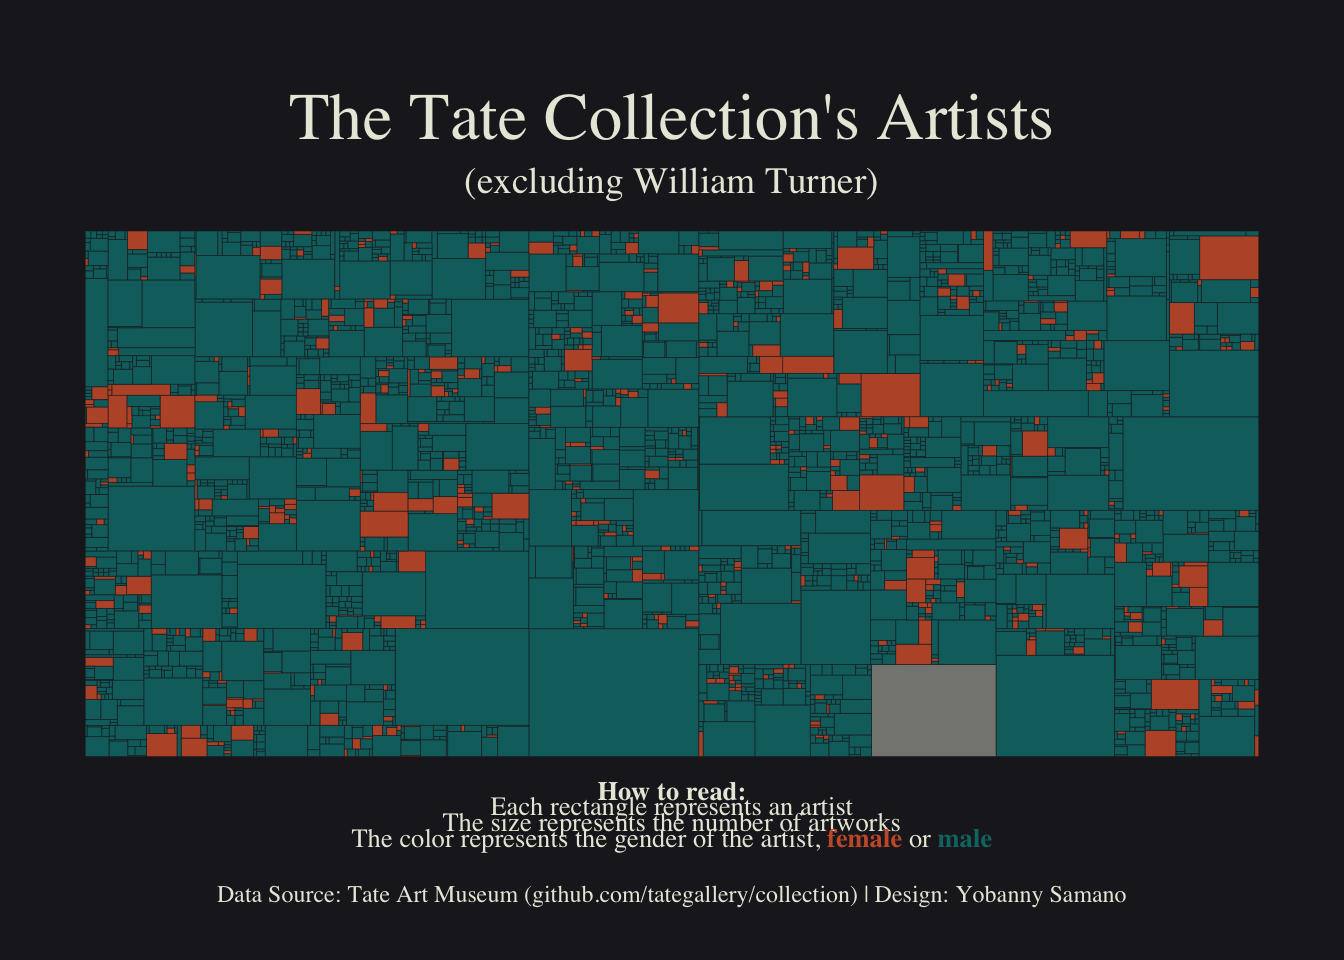
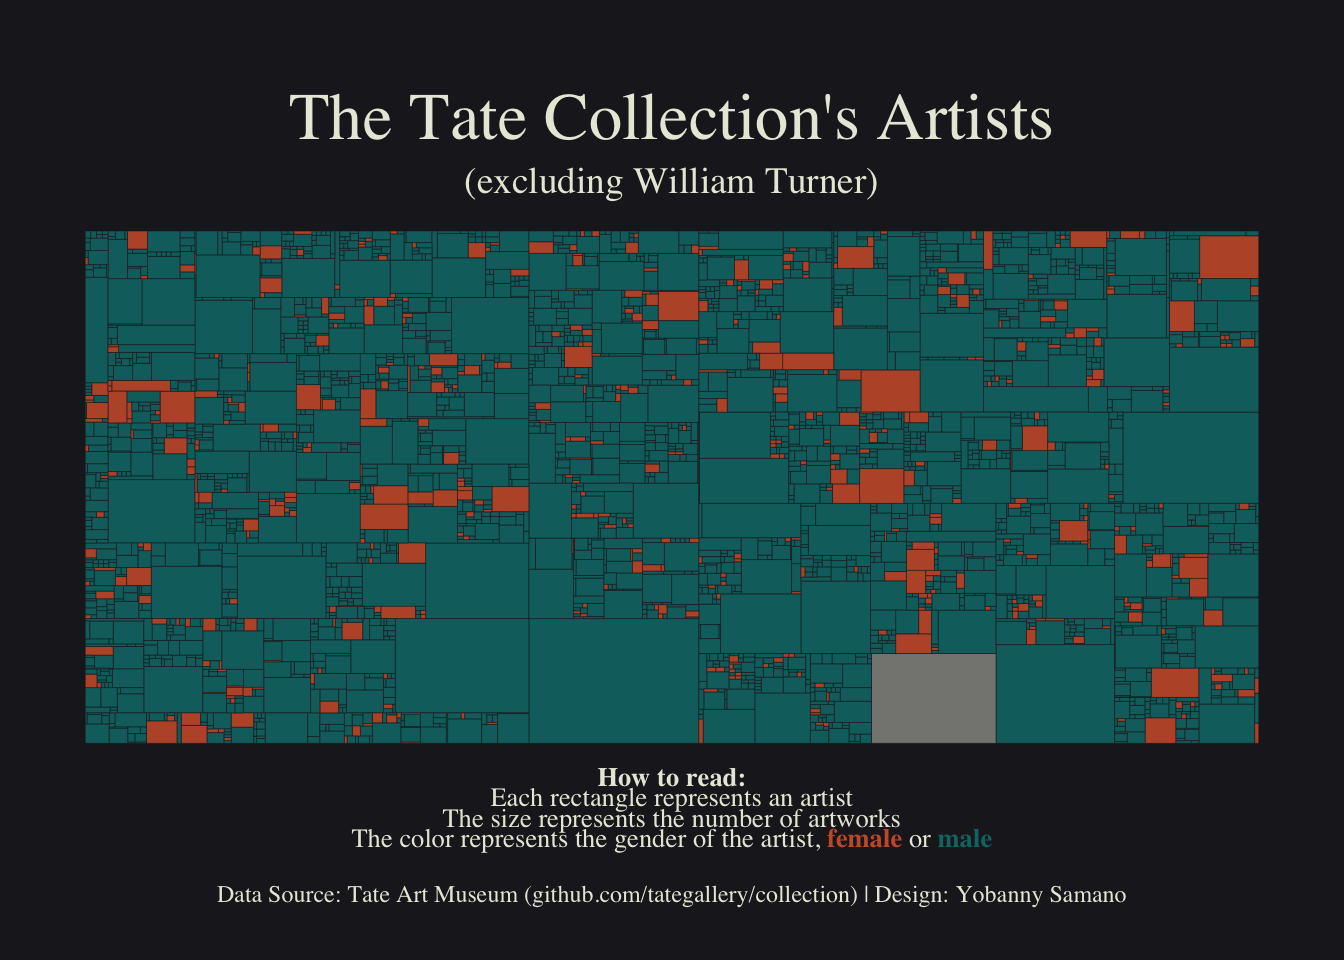
improve treemap post

Changed region(s): [[0.0625, 0.25, 0.9375, 0.875], [0.1875, 0.25, 0.2188, 0.3125], [0.0938, 0.25, 0.1562, 0.2812]]

diff --git a/web-treemap-with-annotations-labels-and-colors.html b/web-treemap-with-annotations-labels-and-colors.html
@@ -192,6 +192,10 @@ Sámano</a> on the occasion of a Tidy Tuesday in 2021! We’ll see how to
 reproduce it using his code.</p>
 <p>Since there are 2 distinct versions of this chart, we’ll see how to
 reproduce both of them.</p>
+<p>Let’s see what the final output looks like:</p>
+<center>
+<img src="https://raw.githubusercontent.com/holtzy/R-graph-gallery/master/img/graph/web-treemap-with-annotations-labels-and-colors.png" width="70%">
+</center>
 </div>
 <div id="load-data" class="section level1">
 <h1>Load data</h1>
@@ -208,18 +212,14 @@ them if needed, then you can load them:</p>
 <a
 href="https://github.com/holtzy/R-graph-gallery/tree/master/DATA">Gallery
 repo</a> or loaded directy in R as shown below:</p>
-<div class="sourceCode" id="cb2"><pre class="sourceCode r"><code class="sourceCode r"><span id="cb2-1"><a href="#cb2-1" tabindex="-1"></a><span class="co"># UNCOMMENT WHEN MERGING</span></span>
-<span id="cb2-2"><a href="#cb2-2" tabindex="-1"></a><span class="co">#artwork &lt;- readr::read_csv(</span></span>
-<span id="cb2-3"><a href="#cb2-3" tabindex="-1"></a><span class="co">#  &#39;https://raw.githubusercontent.com/holtzy/R-graph-gallery/master/DATA/artwork.csv&#39;, </span></span>
-<span id="cb2-4"><a href="#cb2-4" tabindex="-1"></a><span class="co">#  show_col_types = FALSE</span></span>
-<span id="cb2-5"><a href="#cb2-5" tabindex="-1"></a><span class="co">#)</span></span>
-<span id="cb2-6"><a href="#cb2-6" tabindex="-1"></a><span class="co">#artists &lt;- readr::read_csv(</span></span>
-<span id="cb2-7"><a href="#cb2-7" tabindex="-1"></a><span class="co">#  &#39;https://raw.githubusercontent.com/holtzy/R-graph-gallery/master/DATA/artist_data.csv&#39;,</span></span>
-<span id="cb2-8"><a href="#cb2-8" tabindex="-1"></a><span class="co">#  show_col_types = FALSE</span></span>
-<span id="cb2-9"><a href="#cb2-9" tabindex="-1"></a><span class="co">#)</span></span>
-<span id="cb2-10"><a href="#cb2-10" tabindex="-1"></a></span>
-<span id="cb2-11"><a href="#cb2-11" tabindex="-1"></a>artwork <span class="ot">&lt;-</span> readr<span class="sc">::</span><span class="fu">read_csv</span>(<span class="st">&#39;DATA/artwork.csv&#39;</span>, <span class="at">show_col_types =</span> <span class="cn">FALSE</span>)</span>
-<span id="cb2-12"><a href="#cb2-12" tabindex="-1"></a>artists <span class="ot">&lt;-</span> readr<span class="sc">::</span><span class="fu">read_csv</span>(<span class="st">&#39;DATA/artist_data.csv&#39;</span>, <span class="at">show_col_types =</span> <span class="cn">FALSE</span>)</span></code></pre></div>
+<div class="sourceCode" id="cb2"><pre class="sourceCode r"><code class="sourceCode r"><span id="cb2-1"><a href="#cb2-1" tabindex="-1"></a>artwork <span class="ot">&lt;-</span> readr<span class="sc">::</span><span class="fu">read_csv</span>(</span>
+<span id="cb2-2"><a href="#cb2-2" tabindex="-1"></a>  <span class="st">&#39;https://raw.githubusercontent.com/holtzy/R-graph-gallery/master/DATA/artwork.csv&#39;</span>, </span>
+<span id="cb2-3"><a href="#cb2-3" tabindex="-1"></a>  <span class="at">show_col_types =</span> <span class="cn">FALSE</span></span>
+<span id="cb2-4"><a href="#cb2-4" tabindex="-1"></a>)</span>
+<span id="cb2-5"><a href="#cb2-5" tabindex="-1"></a>artists <span class="ot">&lt;-</span> readr<span class="sc">::</span><span class="fu">read_csv</span>(</span>
+<span id="cb2-6"><a href="#cb2-6" tabindex="-1"></a>  <span class="st">&#39;https://raw.githubusercontent.com/holtzy/R-graph-gallery/master/DATA/artist_data.csv&#39;</span>,</span>
+<span id="cb2-7"><a href="#cb2-7" tabindex="-1"></a>  <span class="at">show_col_types =</span> <span class="cn">FALSE</span></span>
+<span id="cb2-8"><a href="#cb2-8" tabindex="-1"></a>)</span></code></pre></div>
 <p>Then, let’s merge the datasets and clean the data a little bit:</p>
 <div class="sourceCode" id="cb3"><pre class="sourceCode r"><code class="sourceCode r"><span id="cb3-1"><a href="#cb3-1" tabindex="-1"></a>artwork_artist <span class="ot">&lt;-</span> artwork <span class="sc">%&gt;%</span> </span>
 <span id="cb3-2"><a href="#cb3-2" tabindex="-1"></a>  <span class="fu">left_join</span>(artists,<span class="at">by =</span> <span class="fu">c</span>(<span class="st">&quot;artistId&quot;</span> <span class="ot">=</span> <span class="st">&quot;id&quot;</span>)</span>
@@ -270,7 +270,7 @@ repo</a> or loaded directy in R as shown below:</p>
 <span id="cb5-14"><a href="#cb5-14" tabindex="-1"></a><span class="st">                                &lt;span style=&#39;color:#C95C35&#39;&gt;**female**&lt;/span&gt; or </span></span>
 <span id="cb5-15"><a href="#cb5-15" tabindex="-1"></a><span class="st">                                &lt;span style=&#39;color:#0A7575&#39;&gt;**male**&lt;/span&gt;&quot;</span>),</span>
 <span id="cb5-16"><a href="#cb5-16" tabindex="-1"></a>                      <span class="at">x =</span> <span class="fu">c</span>(<span class="fl">0.5</span>, <span class="fl">0.5</span>, <span class="fl">0.5</span>, <span class="fl">0.5</span>),</span>
-<span id="cb5-17"><a href="#cb5-17" tabindex="-1"></a>                      <span class="at">y =</span> <span class="fu">c</span>(<span class="sc">-</span><span class="fl">0.07</span>, <span class="sc">-</span><span class="fl">0.1</span>, <span class="sc">-</span><span class="fl">0.13</span>, <span class="sc">-</span><span class="fl">0.16</span>))</span>
+<span id="cb5-17"><a href="#cb5-17" tabindex="-1"></a>                      <span class="at">y =</span> <span class="fu">c</span>(<span class="sc">-</span><span class="fl">0.07</span>, <span class="sc">-</span><span class="fl">0.11</span>, <span class="sc">-</span><span class="fl">0.15</span>, <span class="sc">-</span><span class="fl">0.19</span>))</span>
 <span id="cb5-18"><a href="#cb5-18" tabindex="-1"></a></span>
 <span id="cb5-19"><a href="#cb5-19" tabindex="-1"></a></span>
 <span id="cb5-20"><a href="#cb5-20" tabindex="-1"></a>p1 <span class="ot">&lt;-</span> <span class="fu">ggplot</span>(data_ggplot) <span class="sc">+</span></span>

diff --git a/best-r-chart-examples.html b/best-r-chart-examples.html
@@ -638,6 +638,38 @@
 
         <div class="row">
           <div class="col col-12 col-sm-5 my-auto">
+            <a href="web-treemap-with-annotations-labels-and-colors.html">
+              <img
+                class="img-fluid best-graph-page-img mb-4"
+                src="img/graph/web-treemap-with-annotations-labels-and-colors.png"
+                alt="Treemap with annotations, labels and colors"
+              />
+            </a>
+          </div>
+          <div class="col col-12 col-sm-7 my-auto">
+            <div>
+              <h2 class="mySeryTitle">Treemap with annotations and labels </h2>
+              <hr />
+              <p>
+                A treemap with annotations, labels and colors. A good example of
+                how to customize a treemap with specific labels.
+              </p>
+              <p class="text-secondary"><i>by Yobanny Sámano</i></p>
+              <a
+                class="btn btn-md btn-secondary"
+                href="web-treemap-with-annotations-labels-and-colors.html"
+                >Read tutorial</a
+              >
+            </div>
+          </div>
+        </div>
+
+        <br />
+        <br />
+        <br />
+
+        <div class="row">
+          <div class="col col-12 col-sm-5 my-auto">
             <a href="web-streamchart-with-ggstream.html">
               <img
                 class="img-fluid best-graph-page-img mb-4"
